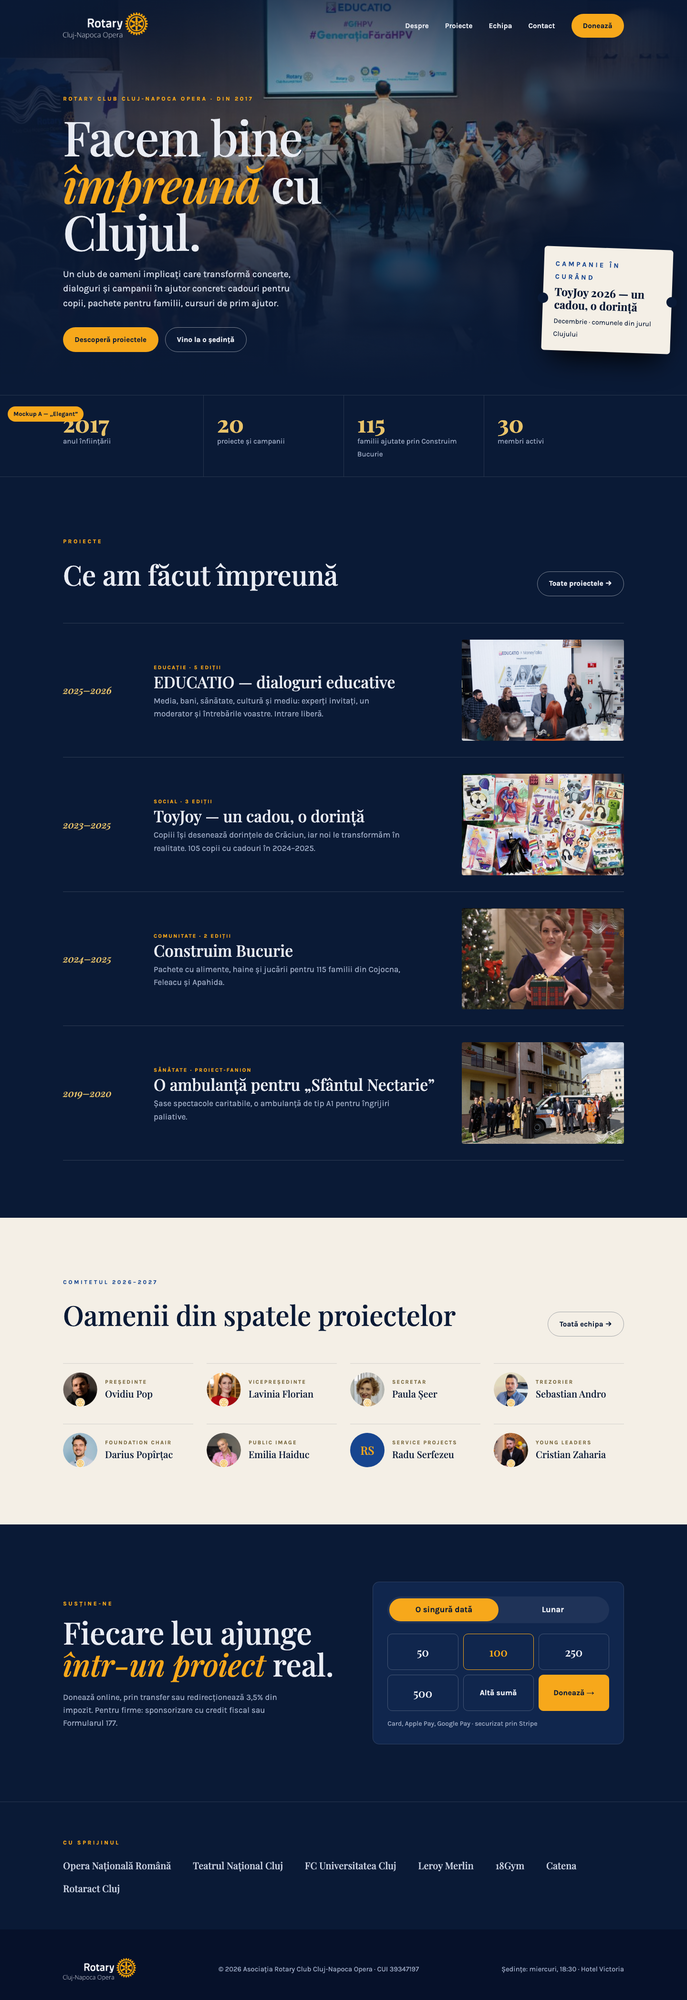
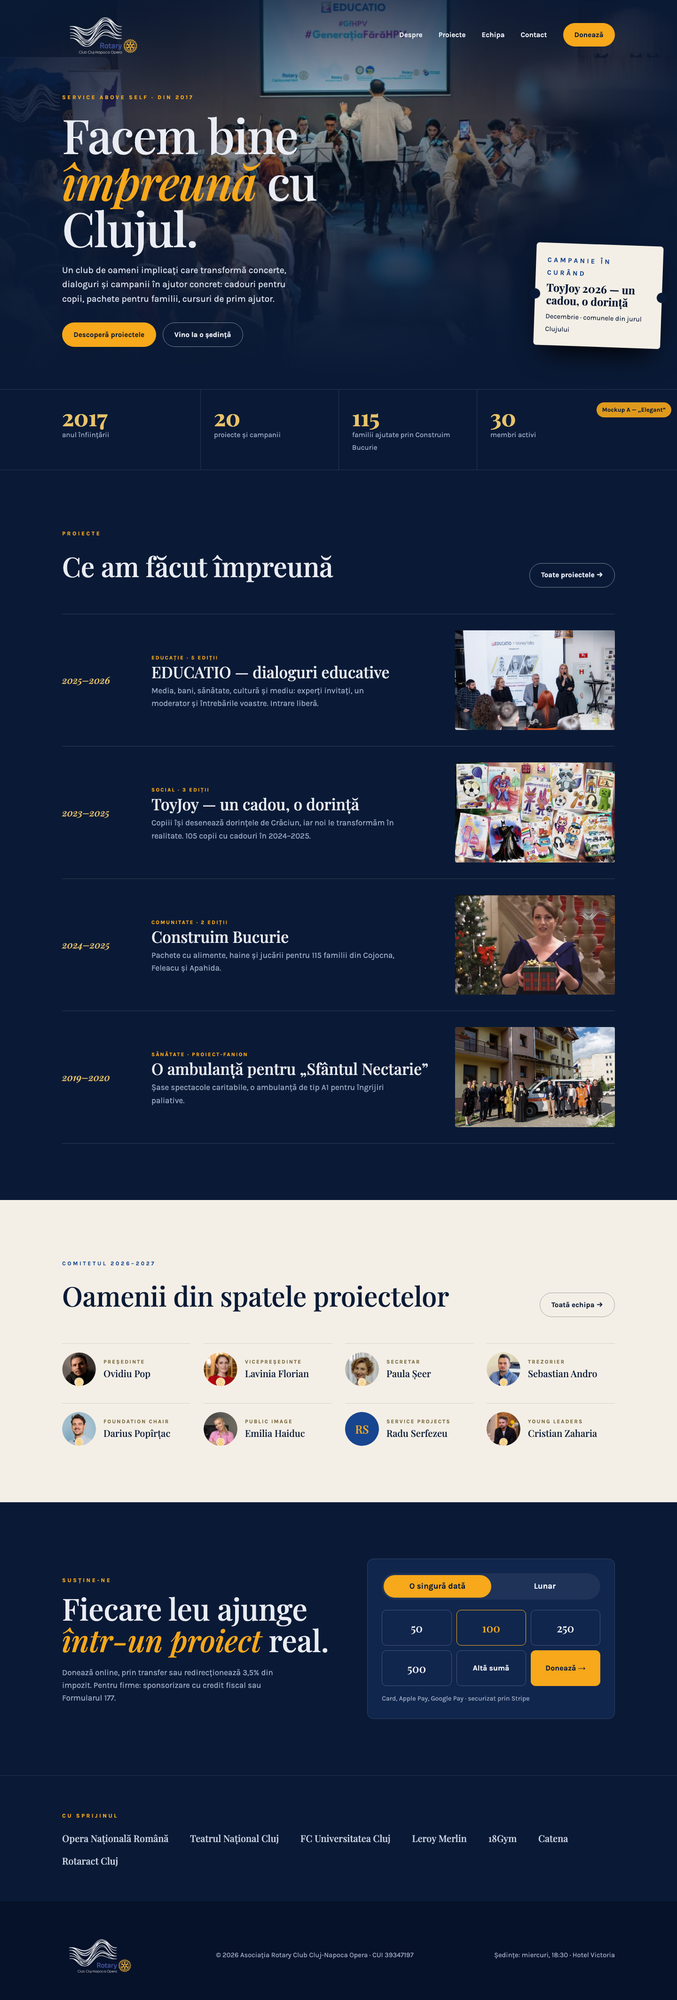
Auto-sync from Claude Code

diff --git a/rotary/site-content/mockups/A-elegant.html b/rotary/site-content/mockups/A-elegant.html
@@ -8,7 +8,7 @@
 a{color:inherit;text-decoration:none}.wrap{max-width:1240px;margin:0 auto;padding:0 32px}
 .serif{font-family:'Playfair Display',Georgia,serif}.eyebrow{font-size:.75rem;letter-spacing:.3em;text-transform:uppercase;color:var(--gold);font-weight:700}
 /* nav */
-.nav{position:absolute;inset:0 0 auto;z-index:5;padding:26px 0}.nav .wrap{display:flex;align-items:center;justify-content:space-between}
+.nav{position:absolute;inset:0 0 auto;z-index:5;padding:14px 0}.nav .wrap{display:flex;align-items:center;justify-content:space-between}
 .logo{display:flex;align-items:center;gap:12px;font-weight:700;letter-spacing:.02em}.logo b{font-family:'Playfair Display';font-size:1.5rem}.logo small{display:block;font-size:.7rem;letter-spacing:.25em;color:var(--gold2);text-transform:uppercase}
 .wheel{width:40px;height:40px;border-radius:50%;border:3px dotted var(--gold);display:grid;place-items:center;color:var(--gold)}
 .menu{display:flex;gap:34px;align-items:center;font-weight:600;font-size:.95rem}.menu a:hover{color:var(--gold)}
@@ -19,7 +19,7 @@ a{color:inherit;text-decoration:none}.wrap{max-width:1240px;margin:0 auto;paddin
 .hero img{position:absolute;inset:0;width:100%;height:100%;object-fit:cover;filter:saturate(.85)}
 .hero:before{content:"";position:absolute;inset:0;z-index:1;background:radial-gradient(ellipse at 50% 30%,rgba(10,26,54,.15),rgba(10,26,54,.92) 70%),linear-gradient(180deg,rgba(10,26,54,.6),transparent 30%,var(--night) 98%)}
 
-.hero .wrap{position:relative;z-index:2;padding-top:150px;padding-bottom:90px;width:100%}
+.hero .wrap{position:relative;z-index:2;padding-top:170px;padding-bottom:90px;width:100%}
 .hero h1{font-family:'Playfair Display';font-weight:500;font-size:clamp(3rem,7vw,6.4rem);line-height:.98;letter-spacing:-.02em;max-width:12ch;margin:18px 0 26px}
 .hero h1 em{color:var(--gold)}.hero p{max-width:46ch;font-size:1.2rem;color:#D3DAE8}.hero .ctas{display:flex;gap:14px;margin-top:34px}
 .ticket{position:absolute;right:32px;bottom:90px;z-index:2;width:270px;background:var(--ivory);color:var(--night);border-radius:6px;padding:22px 24px;transform:rotate(2deg);box-shadow:0 30px 60px -20px #000}
@@ -55,7 +55,7 @@ section{padding:120px 0}.head{display:flex;justify-content:space-between;align-i
 .partners{padding:70px 0;border-top:1px solid #ffffff1f}.logos{display:flex;flex-wrap:wrap;gap:16px 46px;font-family:'Playfair Display';font-size:1.25rem;color:#C8D0E0;margin-top:20px}
 footer{background:#06112A;padding:60px 0 40px;color:var(--mute);font-size:.92rem}footer .wrap{display:flex;justify-content:space-between;gap:30px}
 .tag-mock{position:fixed;right:12px;bottom:12px;opacity:.9;z-index:99;background:var(--gold);color:var(--night);font-weight:700;padding:6px 12px;border-radius:999px;font-size:.8rem}
-@media (max-width:820px){.wrap{padding:0 18px}.menu a:not(.btn){display:none}.logo img{height:44px!important}
+@media (max-width:820px){.wrap{padding:0 18px}.menu a:not(.btn){display:none}.logo img{height:84px!important}
 .hero{min-height:auto}.hero .wrap{padding-top:130px;padding-bottom:40px}.ticket{position:relative;right:auto;bottom:auto;margin:0 18px 30px;transform:none;width:auto}.hero{flex-direction:column;align-items:stretch}
 .hero .ctas{flex-wrap:wrap}.bar .wrap{grid-template-columns:1fr 1fr}.stat{padding:22px 0 22px 18px}.stat:nth-child(3){border-left:0;padding-left:0}.stat b{font-size:2.3rem}
 section{padding:64px 0}.head{flex-direction:column;align-items:flex-start;gap:16px}.act{grid-template-columns:1fr;gap:12px}.act img{order:-1}.act h3{font-size:1.6rem}
@@ -63,7 +63,7 @@ section{padding:64px 0}.head{flex-direction:column;align-items:flex-start;gap:16
 .support .wrap{grid-template-columns:1fr;gap:30px}footer .wrap{flex-direction:column}}
 </style></head><body>
 <div class="tag-mock">Mockup A — „Elegant”</div>
-<header class="nav"><div class="wrap"><a class="logo"><img src="https://rotaryoperacluj.ro/wp-content/uploads/2026/09/rotary-cluj-napoca-opera-alb.png" alt="Rotary Club Cluj-Napoca Opera" style="height:56px;width:auto"></a>
+<header class="nav"><div class="wrap"><a class="logo"><img src="../logo-opera-alb.png" alt="Rotary Club Cluj-Napoca Opera" style="height:120px;width:auto"></a>
 <nav class="menu"><a>Despre</a><a>Proiecte</a><a>Echipa</a><a>Contact</a><a class="btn btn-gold">Donează</a></nav></div></header>
 <section class="hero" style="padding:0"><img src="https://rotaryoperacluj.ro/wp-content/uploads/2026/05/educatio-hpv-2-1024x683.jpg" alt="">
 <div class="wrap"><span class="eyebrow">Service Above Self · din 2017</span>
@@ -86,7 +86,7 @@ section{padding:64px 0}.head{flex-direction:column;align-items:flex-start;gap:16
 <section class="support"><div class="wrap"><div><span class="eyebrow">Susține-ne</span><h2 class="serif" style="margin:14px 0 22px">Fiecare leu ajunge <em>într-un proiect</em> real.</h2><p style="color:var(--mute);max-width:46ch">Donează online, prin transfer sau redirecționează 3,5% din impozit. Pentru firme: sponsorizare cu credit fiscal sau Formularul 177.</p></div>
 <div class="donate"><div class="seg"><span class="on">O singură dată</span><span>Lunar</span></div><div class="amts"><span>50</span><span class="sel">100</span><span>250</span><span>500</span><span style="font-family:Karla;font-weight:700;font-size:1rem;display:grid;place-items:center">Altă sumă</span><span style="background:var(--gold);color:var(--night);border-color:var(--gold);font-family:Karla;font-weight:700;font-size:1rem;display:grid;place-items:center">Donează →</span></div><small>Card, Apple Pay, Google Pay · securizat prin Stripe</small></div></div></section>
 <div class="partners"><div class="wrap"><span class="eyebrow">Cu sprijinul</span><div class="logos"><span>Opera Națională Română</span><span>Teatrul Național Cluj</span><span>FC Universitatea Cluj</span><span>Leroy Merlin</span><span>18Gym</span><span>Catena</span><span>Rotaract Cluj</span></div></div></div>
-<footer><div class="wrap" style="align-items:center"><img src="https://rotaryoperacluj.ro/wp-content/uploads/2026/09/rotary-cluj-napoca-opera-alb.png" alt="" style="height:48px;width:auto"><span>© 2026 Asociația Rotary Club Cluj-Napoca Opera · CUI 39347197</span><span>Ședințe: miercuri, 18:30 · Hotel Victoria</span></div></footer>
+<footer><div class="wrap" style="align-items:center"><img src="../logo-opera-alb.png" alt="" style="height:110px;width:auto"><span>© 2026 Asociația Rotary Club Cluj-Napoca Opera · CUI 39347197</span><span>Ședințe: miercuri, 18:30 · Hotel Victoria</span></div></footer>
 <script>
 const B=[["Ovidiu Pop","Președinte","https://rotaryoperacluj.ro/wp-content/uploads/2026/09/ovidiu-pop-300x300.png"],["Lavinia Florian","Vicepreședinte","https://rotaryoperacluj.ro/wp-content/uploads/2026/09/lavinia-florian-300x300.png"],["Paula Șeer","Secretar","https://rotaryoperacluj.ro/wp-content/uploads/2026/09/paula-seer-2026-300x300.png"],["Sebastian Andro","Trezorier","https://rotaryoperacluj.ro/wp-content/uploads/2026/09/sebastian-andro-300x300.png"],["Darius Popîrțac","Foundation Chair","https://rotaryoperacluj.ro/wp-content/uploads/2026/09/darius-300x300.png"],["Emilia Haiduc","Public Image","https://rotaryoperacluj.ro/wp-content/uploads/2026/09/emilia-haiduc-300x300.png"],["Radu Serfezeu","Service Projects",""],["Cristian Zaharia","Young Leaders","https://rotaryoperacluj.ro/wp-content/uploads/2026/09/cristi-zaharia-300x300.png"]];
 document.getElementById('cast').innerHTML=B.map(([n,r,i])=>`<div class="member">${i?`<img src="${i}" alt="">`:`<span class="mono">${n.split(' ').map(w=>w[0]).join('')}</span>`}<div><i>${r}</i><b>${n}</b></div></div>`).join('');

diff --git a/rotary/site-content/mockups/B-impact.html b/rotary/site-content/mockups/B-impact.html
@@ -9,7 +9,7 @@
 .pill{display:inline-flex;align-items:center;gap:.5rem;padding:.4em .9em;border-radius:999px;background:var(--sky);color:var(--blue);font-weight:700;font-size:.8rem}
 .btn{display:inline-flex;align-items:center;gap:.5rem;padding:.9em 1.5em;border-radius:14px;font-weight:700}.btn-gold{background:var(--gold);color:var(--navy)}.btn-blue{background:var(--blue);color:#fff}.btn-ghost{border:2px solid var(--line)}
 /* nav */
-.nav{padding:18px 0;position:sticky;top:0;background:#ffffffee;backdrop-filter:blur(8px);z-index:9;border-bottom:1px solid var(--line)}.nav .wrap{display:flex;justify-content:space-between;align-items:center}
+.nav{padding:8px 0;position:sticky;top:0;background:#ffffffee;backdrop-filter:blur(8px);z-index:9;border-bottom:1px solid var(--line)}.nav .wrap{display:flex;justify-content:space-between;align-items:center}
 .logo{display:flex;align-items:center;gap:10px;font-weight:800;color:var(--blue)}.logo b{font-family:'Bricolage Grotesque';font-size:1.45rem}.logo small{font-weight:600;color:var(--mute);font-size:.8rem;display:block;line-height:1}
 .wheel{width:38px;height:38px;border-radius:50%;background:var(--gold);display:grid;place-items:center;color:#fff;font-size:1.2rem}
 .menu{display:flex;gap:28px;align-items:center;font-weight:600}
@@ -45,7 +45,7 @@ section{padding:90px 0}.h{display:flex;justify-content:space-between;align-items
 .way.hl{background:var(--navy);border-color:var(--navy);color:#fff}.way.hl p{color:#C7D3EA}.way.hl a{color:var(--gold)}.way.hl .ic{background:#ffffff1a}
 footer{background:var(--navy);color:#C7D3EA;padding:56px 0;margin-top:40px}footer .wrap{display:flex;justify-content:space-between;gap:20px;font-size:.92rem}
 .tag-mock{position:fixed;right:12px;bottom:12px;opacity:.9;z-index:99;background:var(--blue);color:#fff;font-weight:700;padding:6px 12px;border-radius:999px;font-size:.8rem}
-@media (max-width:820px){.wrap{padding:0 18px}.menu a:not(.btn){display:none}.logo img{height:42px!important}
+@media (max-width:820px){.wrap{padding:0 18px}.menu a:not(.btn){display:none}.logo img{height:76px!important}
 .hero{padding:28px 0 10px}.hero .wrap{grid-template-columns:1fr;gap:26px}.collage{grid-template-rows:140px 140px}
 .impact{grid-template-columns:1fr 1fr;padding:26px;border-radius:22px;gap:18px}.impact b{font-size:2.3rem}
 section{padding:56px 0}.h{flex-direction:column;align-items:flex-start;gap:14px}.camp{grid-template-columns:1fr}.camp img{min-height:220px}.camp .c{padding:26px}.camp h3{font-size:1.8rem}
@@ -54,7 +54,7 @@ section{padding:56px 0}.h{flex-direction:column;align-items:flex-start;gap:14px}
 .ways{grid-template-columns:1fr}footer .wrap{flex-direction:column}}
 </style></head><body>
 <div class="tag-mock">Mockup B — „Impact”</div>
-<header class="nav"><div class="wrap"><a class="logo"><img src="https://rotaryoperacluj.ro/wp-content/uploads/2026/09/rotary-cluj-napoca-opera.png" alt="Rotary Club Cluj-Napoca Opera" style="height:52px;width:auto"></a>
+<header class="nav"><div class="wrap"><a class="logo"><img src="../logo-opera-navy.png" alt="Rotary Club Cluj-Napoca Opera" style="height:104px;width:auto"></a>
 <nav class="menu"><a>Despre</a><a>Proiecte</a><a>Echipa</a><a>Contact</a><a class="btn btn-gold" style="padding:.7em 1.3em">Donează</a></nav></div></header>
 <div class="hero"><div class="wrap"><div><span class="pill">● Club Rotary din Cluj-Napoca, din 2017</span>
 <h1 class="d">Oameni care fac <span>Clujul</span> mai bun.</h1>
@@ -83,7 +83,7 @@ section{padding:56px 0}.h{flex-direction:column;align-items:flex-start;gap:14px}
 <div class="way"><span class="ic">📝</span><h4 class="d">3,5% din impozit</h4><p>Gratuit pentru tine: completează Formularul 230 până pe 25 mai.</p><a>Completează →</a></div>
 <div class="way"><span class="ic">🏢</span><h4 class="d">Sponsorizează</h4><p>Pentru firme: credit fiscal sau Formularul 177.</p><a>Află cum →</a></div>
 <div class="way"><span class="ic">🤝</span><h4 class="d">Devino membru</h4><p>Vino la o ședință: miercuri, 18:30, Hotel Victoria.</p><a>Pașii →</a></div></div></div></section>
-<footer><div class="wrap" style="align-items:center"><img src="https://rotaryoperacluj.ro/wp-content/uploads/2026/09/rotary-cluj-napoca-opera-alb.png" alt="" style="height:48px;width:auto"><span>© 2026 Asociația Rotary Club Cluj-Napoca Opera · CUI 39347197</span><span>contact@rotaryoperacluj.ro</span></div></footer>
+<footer><div class="wrap" style="align-items:center"><img src="../logo-opera-alb.png" alt="" style="height:110px;width:auto"><span>© 2026 Asociația Rotary Club Cluj-Napoca Opera · CUI 39347197</span><span>contact@rotaryoperacluj.ro</span></div></footer>
 <script>
 const B=[["Ovidiu Pop","Președinte","https://rotaryoperacluj.ro/wp-content/uploads/2026/09/ovidiu-pop-300x300.png"],["Lavinia Florian","Vicepreședinte","https://rotaryoperacluj.ro/wp-content/uploads/2026/09/lavinia-florian-300x300.png"],["Paula Șeer","Secretar","https://rotaryoperacluj.ro/wp-content/uploads/2026/09/paula-seer-2026-300x300.png"],["Sebastian Andro","Trezorier","https://rotaryoperacluj.ro/wp-content/uploads/2026/09/sebastian-andro-300x300.png"],["Darius Popîrțac","Foundation","https://rotaryoperacluj.ro/wp-content/uploads/2026/09/darius-300x300.png"],["Emilia Haiduc","Public Image","https://rotaryoperacluj.ro/wp-content/uploads/2026/09/emilia-haiduc-300x300.png"],["Radu Serfezeu","Service Projects",""],["Cristian Zaharia","Young Leaders","https://rotaryoperacluj.ro/wp-content/uploads/2026/09/cristi-zaharia-300x300.png"]];
 document.getElementById('faces').innerHTML=B.map(([n,r,i])=>`<div class="face">${i?`<img src="${i}" alt="">`:`<span class="mono">${n.split(' ').map(w=>w[0]).join('')}</span>`}<b>${n}</b><span>${r}</span></div>`).join('');
